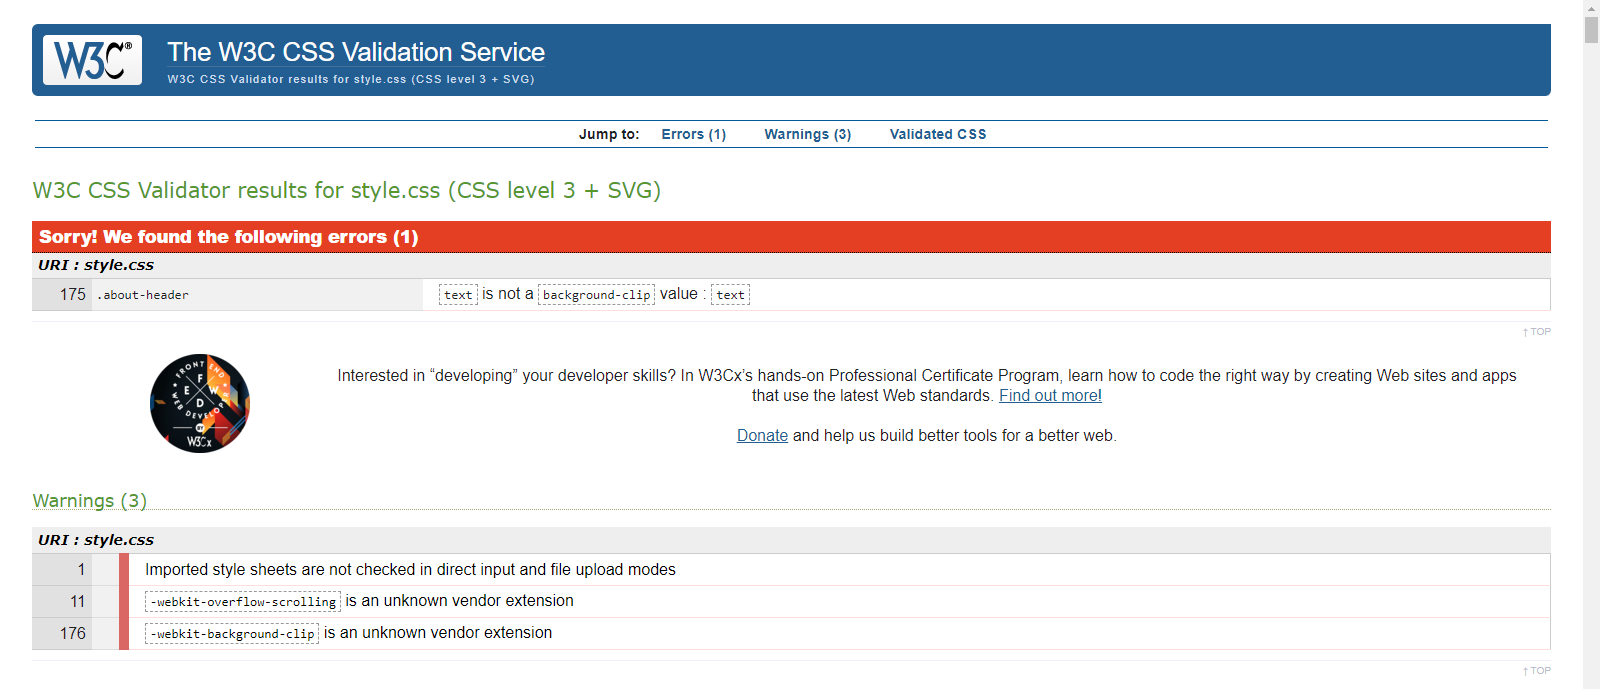
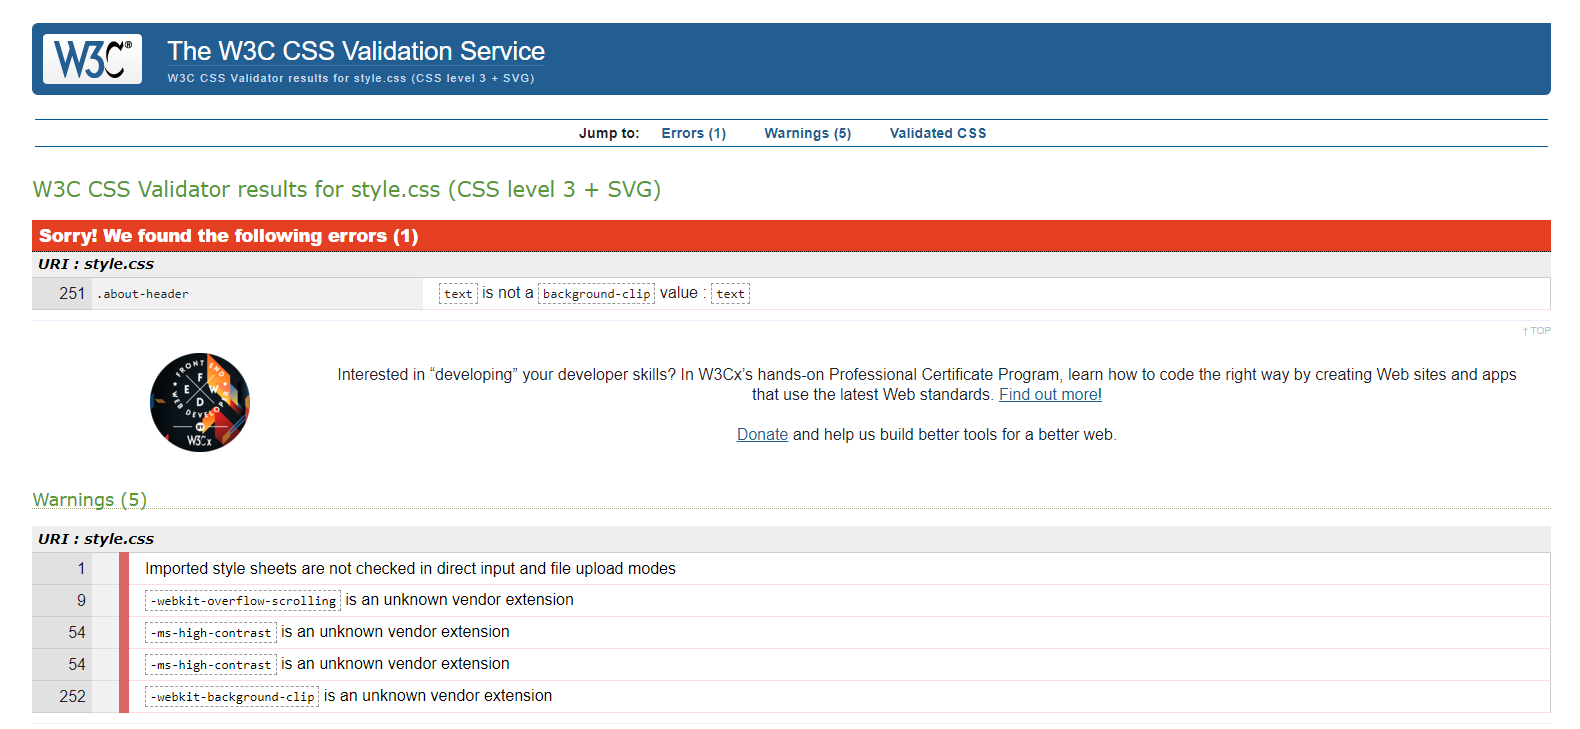
Updating CSS validator results and notes in README

diff --git a/README.md b/README.md
@@ -78,7 +78,7 @@ The W3C Markup Validator and W3C CSS Validator Services were used to validate ev
      
 ***Note:** Section does have a header (h2) but it is just outside the section to account for parallax effect.
 
-****Note:** Mozilla themselves state that text is a valid value of background-clip [here](https://developer.mozilla.org/en-US/docs/Web/CSS/background-clip). All browsers, bar Internet Explorer, accept the text value of -webkit-background-clip. Also -webkit-overflow-scrolling is used on iOS Safari, as described on [Mozilla's article](https://developer.mozilla.org/en-US/docs/Web/CSS/-webkit-overflow-scrolling) on it. [Here](./docs/safari-overflow-scrolling.png) is a screenshot of the compatability of it.
+****Note:** Mozilla themselves state that text is a valid value of background-clip [here](https://developer.mozilla.org/en-US/docs/Web/CSS/background-clip). All browsers, bar Internet Explorer, accept the text value of -webkit-background-clip. Also -webkit-overflow-scrolling is used on iOS Safari, as described on [Mozilla's article](https://developer.mozilla.org/en-US/docs/Web/CSS/-webkit-overflow-scrolling) on it. [Here](./docs/safari-overflow-scrolling.png) is a screenshot of the compatability of it. [-ms-high-contrast](https://developer.mozilla.org/en-US/docs/Web/CSS/@media/-ms-high-contrast) is a vendor extension used in Internet Explorer and it is only used to see if the user has Internet Explorer as their browser.
 
 ### **Tesing User stories from User Experience Section**
  - ### First Time User Goals
